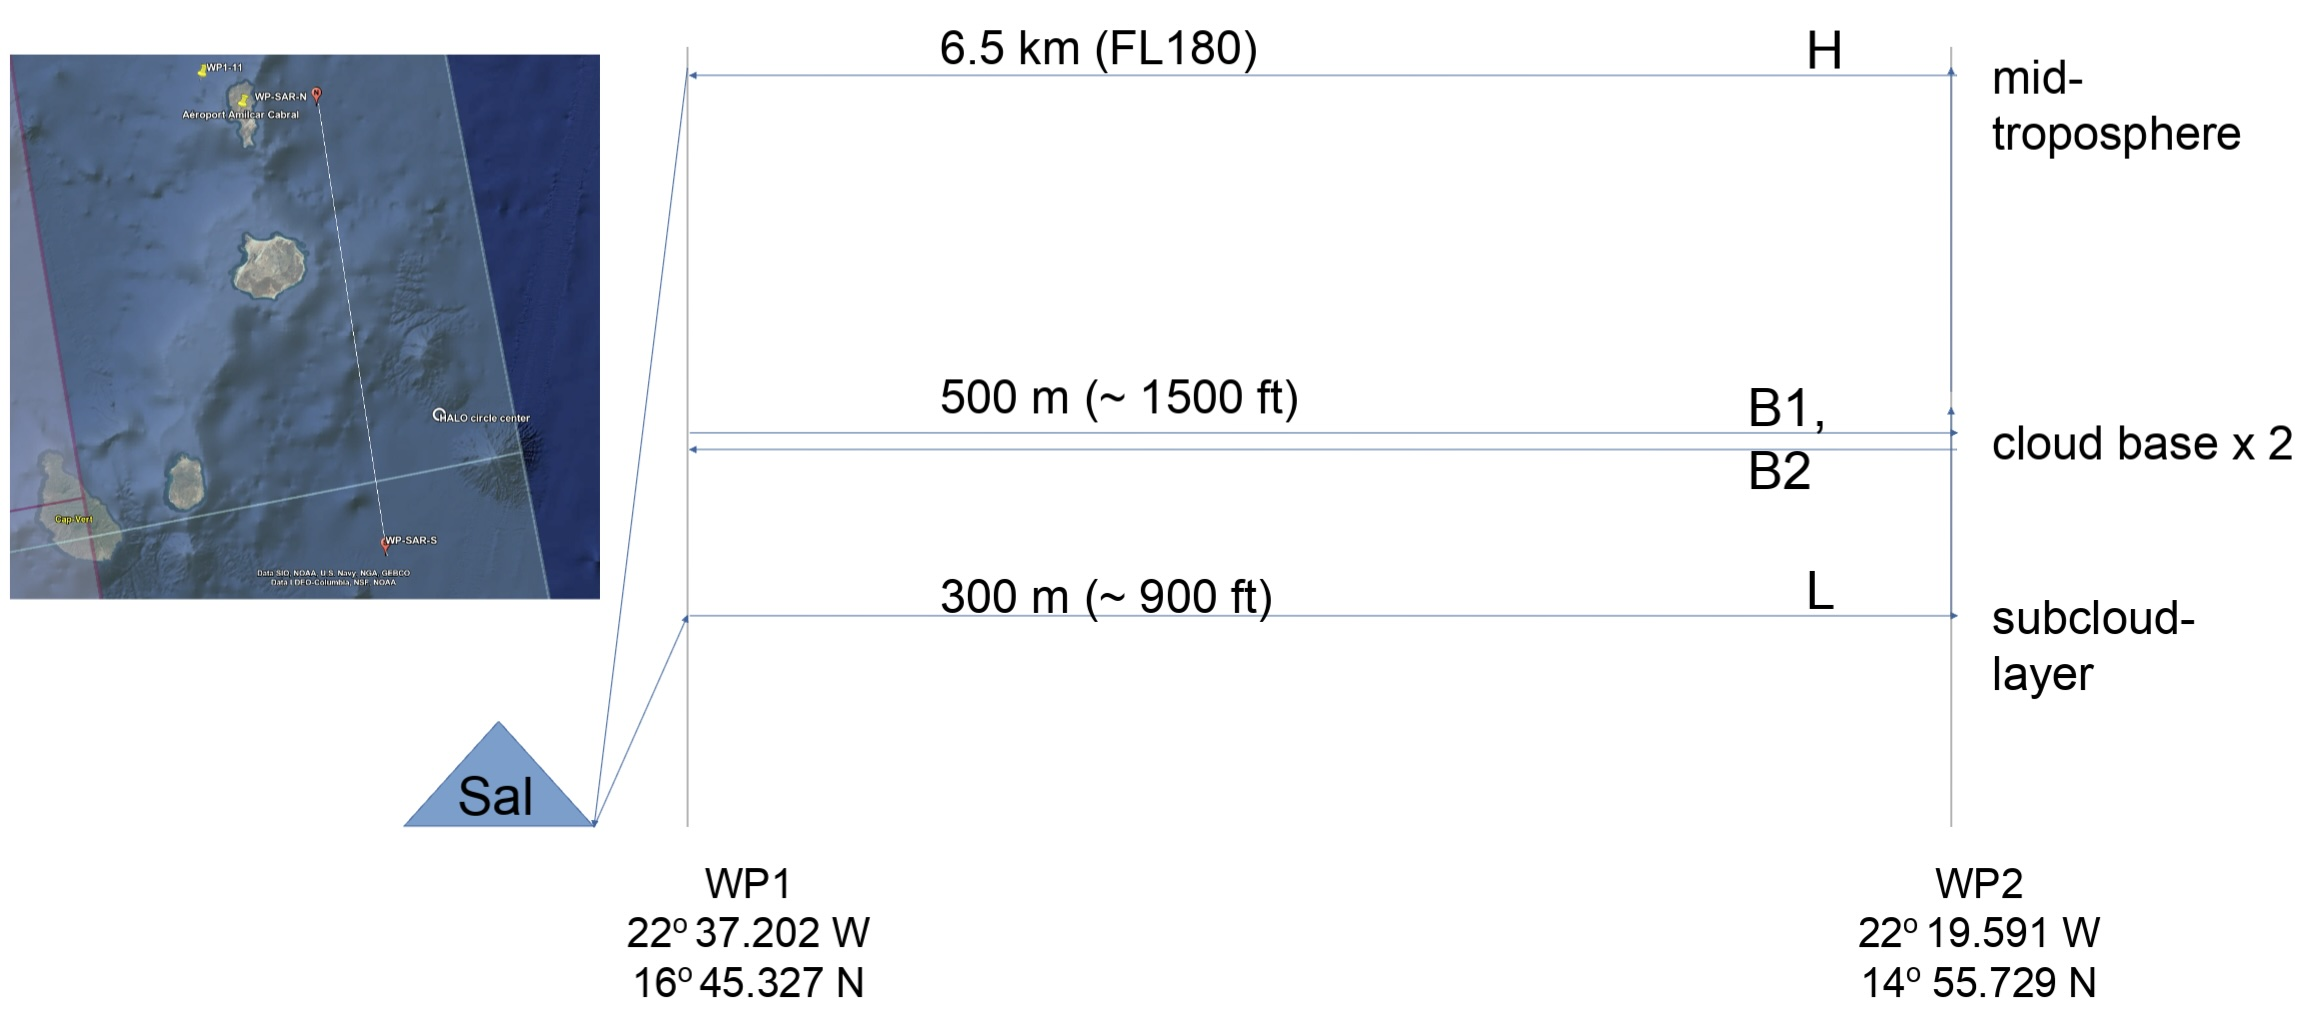
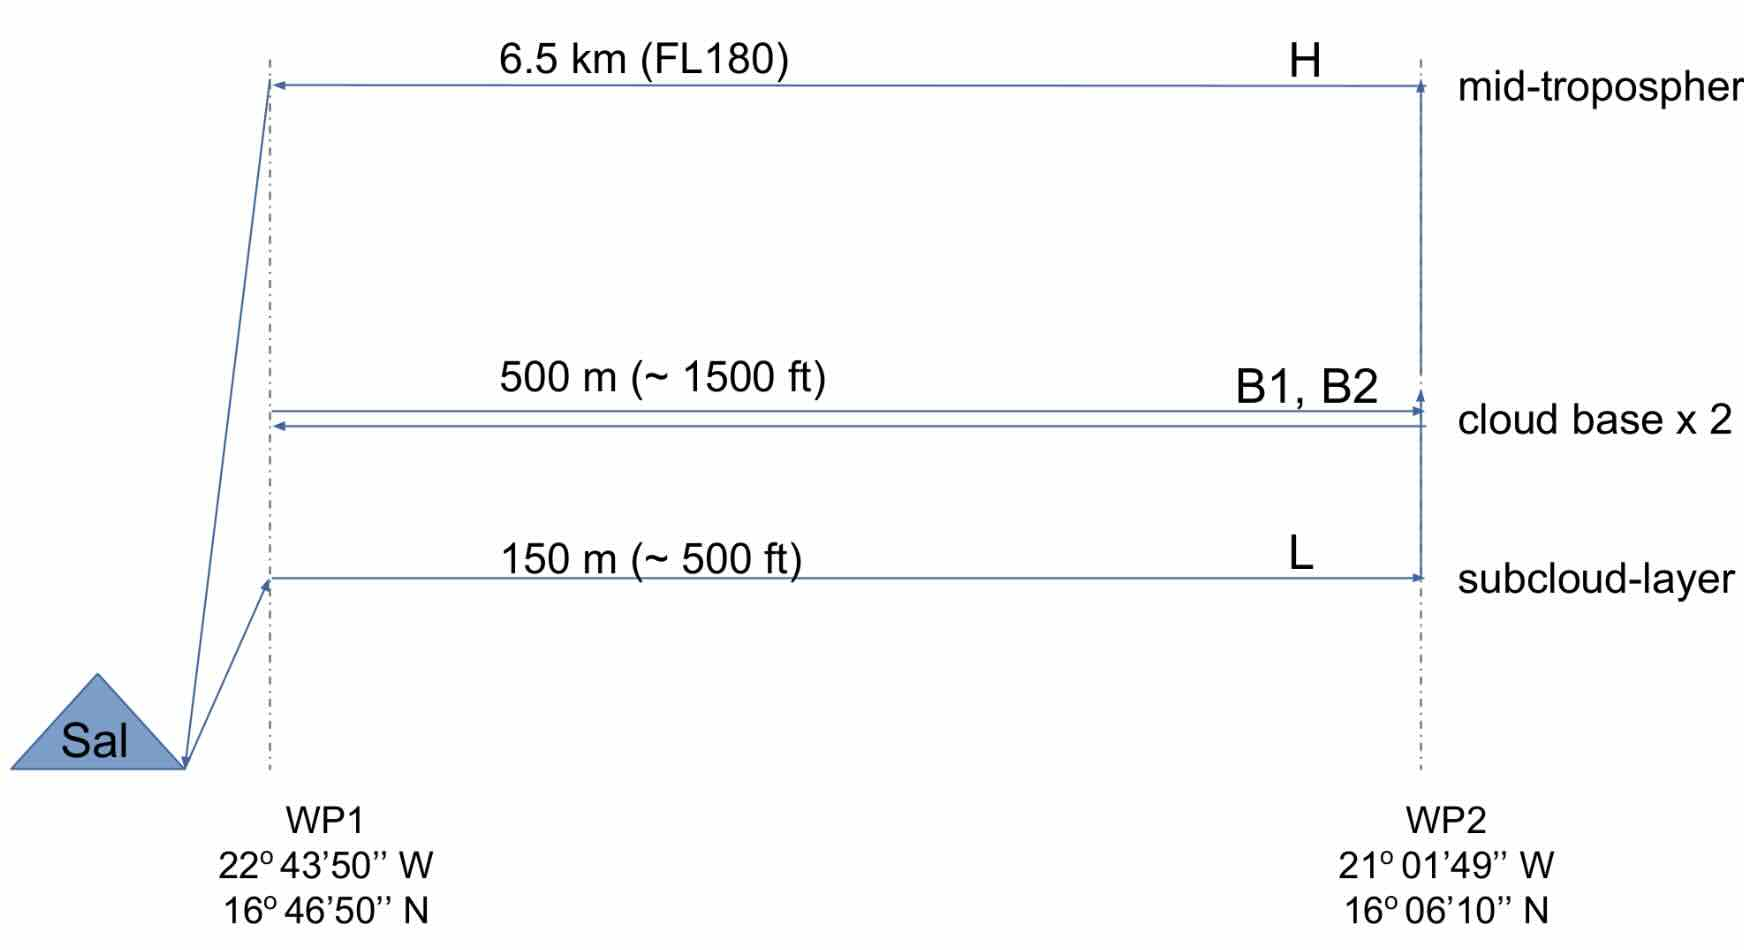
atr updates

diff --git a/orcestra_book/plans/ATR-20240819a.md b/orcestra_book/plans/ATR-20240819a.md
@@ -12,8 +12,8 @@ kernelspec:
 platform: ATR
 
 flight_id: ATR-20240819a
-takeoff: "2024-08-19 13:00:00Z"
-landing: "2024-08-19 16:30:00Z"
+takeoff: "2024-08-19 15:00:00Z"
+landing: "2024-08-19 18:30:00Z"
 departure_airport: GVAC
 arrival_airport: GVAC
 crew:
@@ -54,7 +54,7 @@ categories: [sar_under]
 ## Flight plan
 * The flight is planned to take off at {front}`takeoff` UTC and land at {front}`landing` UTC.
 * Normal MAESTRO flight pattern.
-* Potential for deep convection. 
+* Potential for deep convection and doldrum-like conditions. 
 ```{code-cell} python3
 :tags: [hide-input]
 from orcestra.flightplan import sal, bco, LatLon, IntoCircle, path_preview, plot_cwv
@@ -74,8 +74,8 @@ date_time_str = date_time.strftime('%Y-%m-%d')
 flight_time = datetime(2024, 8, 19, 12, 0, 0)
 
 airport = sal
-wp1 = LatLon(lat=16.7555, lon=-22.6200, label='wp1')
-wp2 = LatLon(lat=14.9288 , lon=-22.3265, label='wp2')
+wp1 = LatLon(lat=16.7806, lon=-22.7306, label='wp1')
+wp2 = LatLon(lat=16.1028 , lon=-21.0303, label='wp2')
 path = [airport, wp1, wp2, wp1, wp2, wp1, airport]
 
 ds = cat.HIFS(refdate=date_time_str, reftime=date_time.hour).to_dask()
